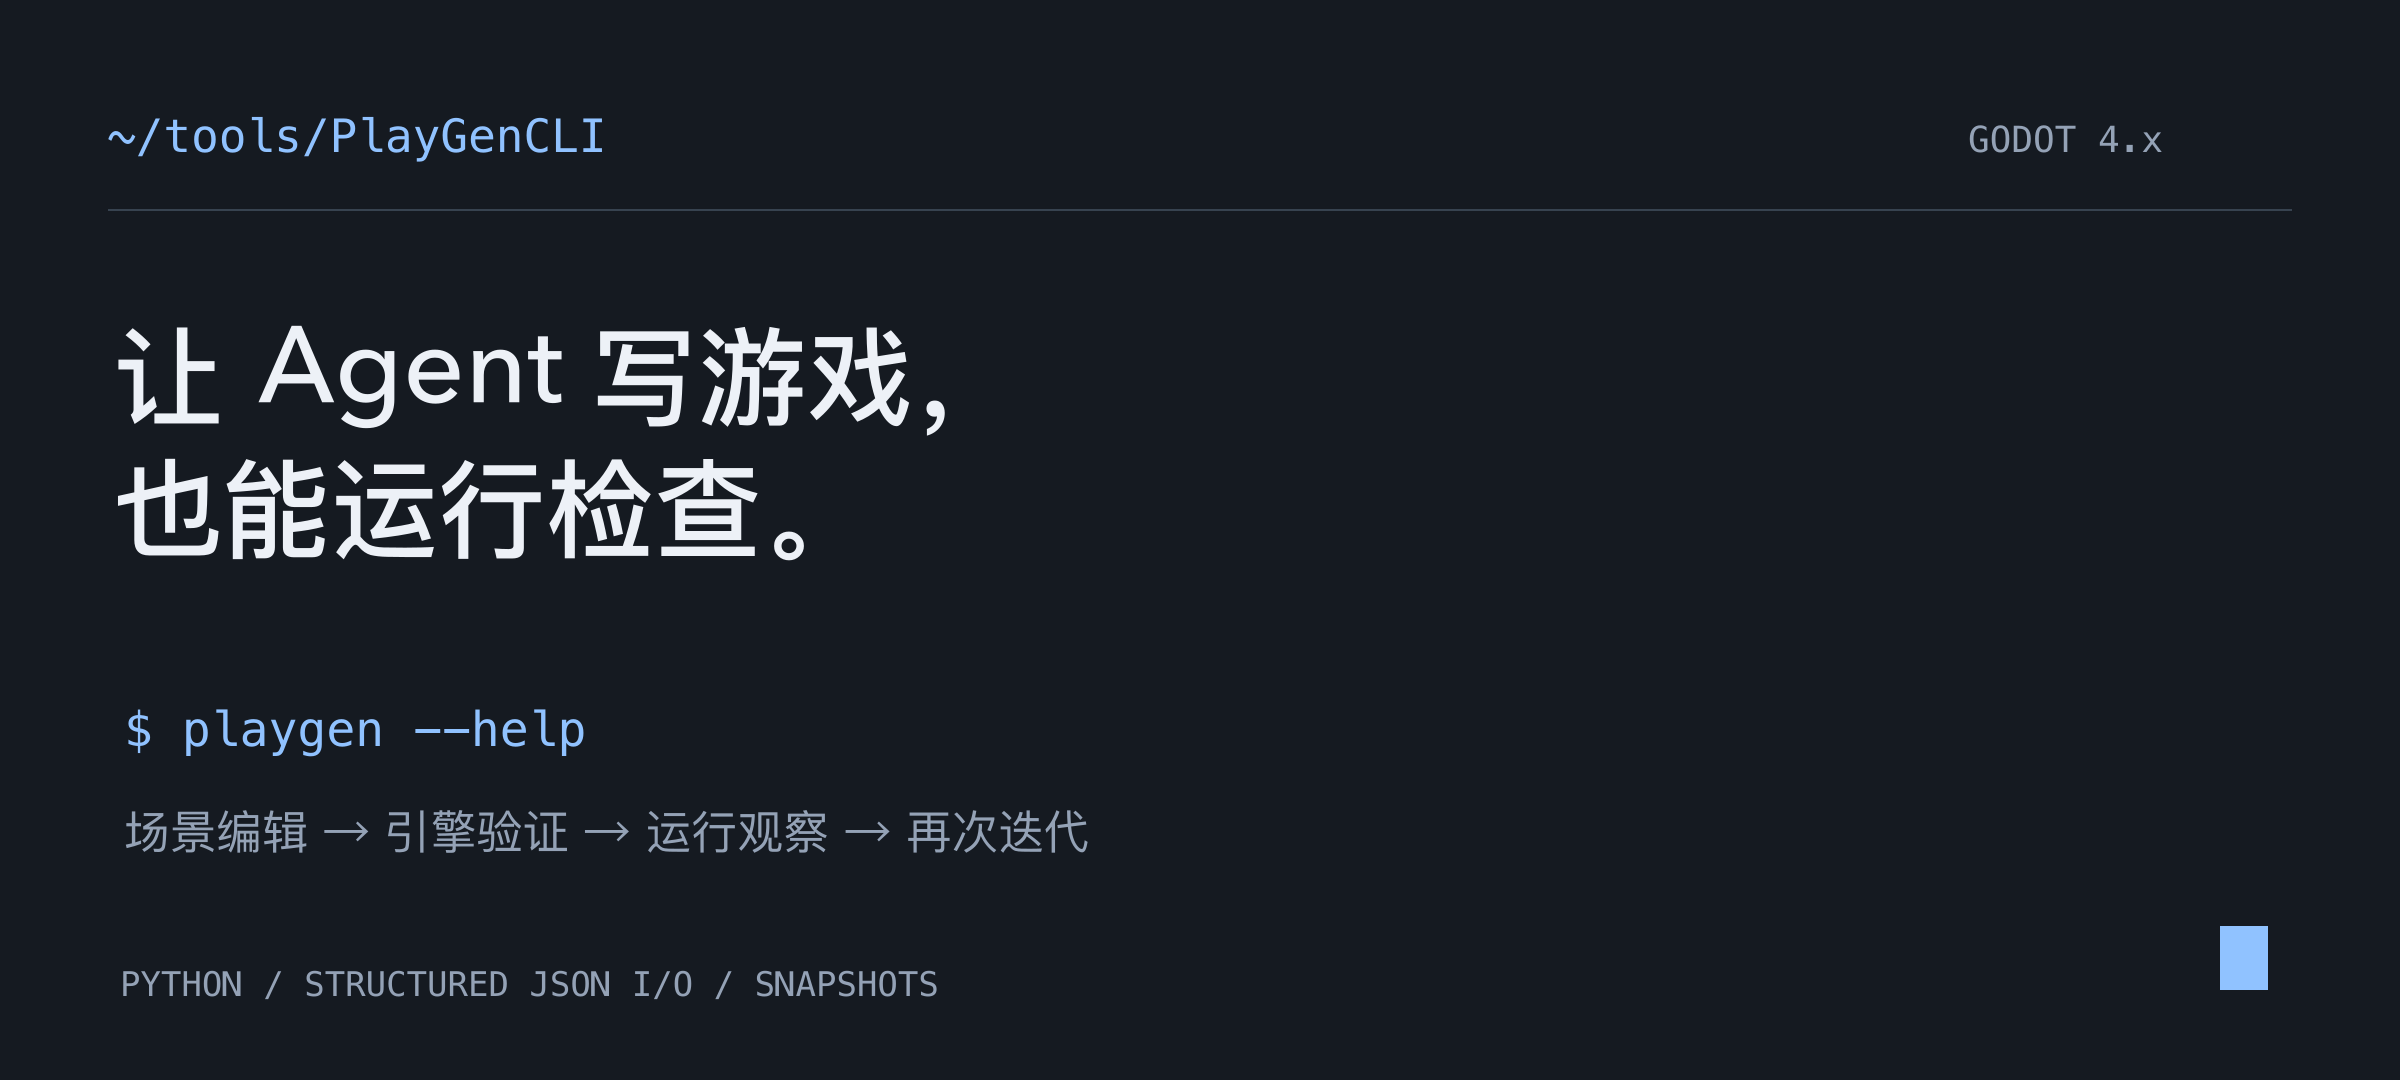
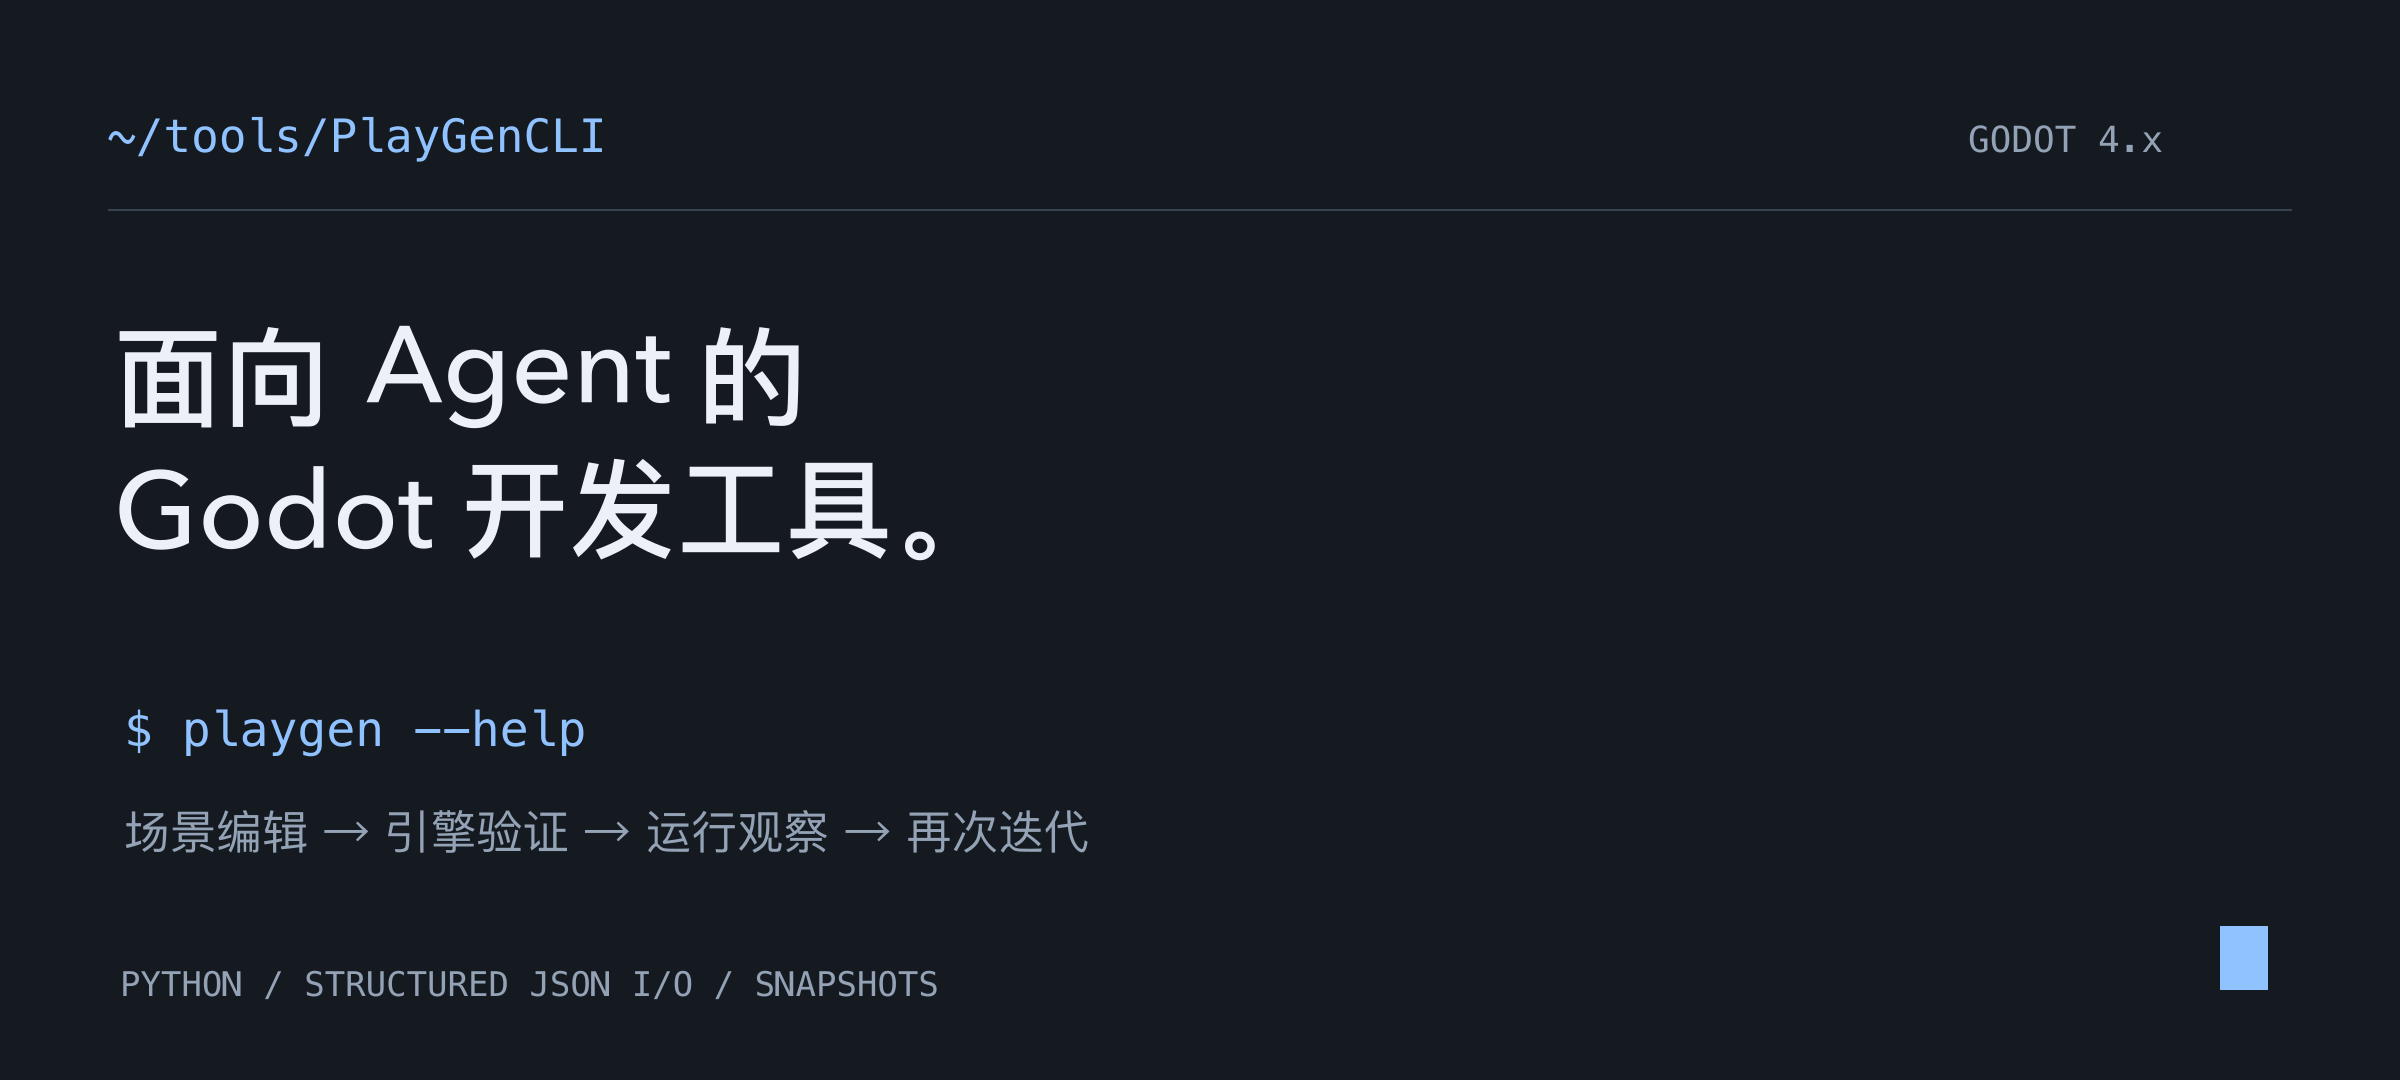
docs: refine Chinese product overview and visual copy

Changed region(s): [[0.0312, 0.4278, 0.4062, 0.5194], [0.0312, 0.3056, 0.4062, 0.3972]]

diff --git a/README.zh-CN.md b/README.zh-CN.md
@@ -1,13 +1,13 @@
-![PlayGen CLI · 让 Agent 搭建 Godot 工程](.readme-assets/hero.zh-CN.png)
+![PlayGen CLI · 面向 Agent 的 Godot 开发工具](.readme-assets/hero.zh-CN.png)
 
 <p align="center"><a href="README.md">English</a> · <strong>简体中文</strong></p>
 <p align="center"><a href="#快速开始">快速开始</a> · <a href="AGENT_GUIDE.md">Agent 指南</a> · <a href="README.reference.md#commands">命令参考</a> · <a href="README.reference.md#changelog">更新记录</a></p>
 
-# Agent 改完 Godot 工程，可以直接运行检查
+# 面向 Agent 的 Godot 开发工具
 
-PlayGenCLI 给 Agent 提供了一组操作 Godot 4.x 工程的命令。创建场景、修改脚本、配置素材后，Agent 可以启动引擎，读取运行记录和截图，再决定下一步怎么改。命令结果通过 JSON 返回。
+PlayGenCLI 将 Godot 4.x 的工程编辑、引擎校验与运行观察接入命令行，为 Agent 提供结构化的 JSON 输入输出。
 
-修改前可以保存文件快照。如果这一轮改坏了，就恢复快照，重新尝试。
+Agent 可以创建场景、修改脚本，再调用 Godot 获取日志与截图，用实际运行的反馈指导下一轮修改。文件快照支持保存和恢复工程版本，便于迭代中的检查与回退。
 
 ![描述意图、搭建工程、观察结果、继续迭代](.readme-assets/workflow.zh-CN.png)
 
@@ -21,7 +21,7 @@ PlayGenCLI 给 Agent 提供了一组操作 Godot 4.x 工程的命令。创建场
 | 检查结果 | `analyze`、`bridge`、`run` | 工程结构、引擎校验与运行反馈。 |
 | 恢复修改 | `snapshot save`、`snapshot restore` | 基于文件的工程快照。 |
 
-## 两层执行方式
+## 执行结构
 
 ```mermaid
 flowchart LR
@@ -35,7 +35,7 @@ flowchart LR
   E <--> G[文件快照]
 ```
 
-文本操作可以直接编辑工程。引擎校验、运行观察与截图需要本机安装 Godot。这些反馈能帮助检查工程有没有运行起来。游戏是否好玩，还得实际试玩。
+工程文件可通过文本命令直接编辑。引擎校验、运行观察与截图依赖本机安装的 Godot，反馈用于检查工程结构与运行状态。玩法体验仍需通过实际试玩评估。
 
 ## 快速开始
 
@@ -56,9 +56,9 @@ playgen --project ../playgen-demo run --observe --timeout 10
 
 Windows 可在 PowerShell 中使用 `.venv\Scripts\Activate.ps1` 激活环境。最后一条命令会通过 Godot 运行生成的工程，并收集运行记录。
 
-## 用 JSON 搭一个场景
+## JSON 场景示例
 
-把下面的内容保存为演示工程里的 `scene.json`。
+将以下内容保存为演示工程中的 `scene.json`。
 
 ```json
 {
